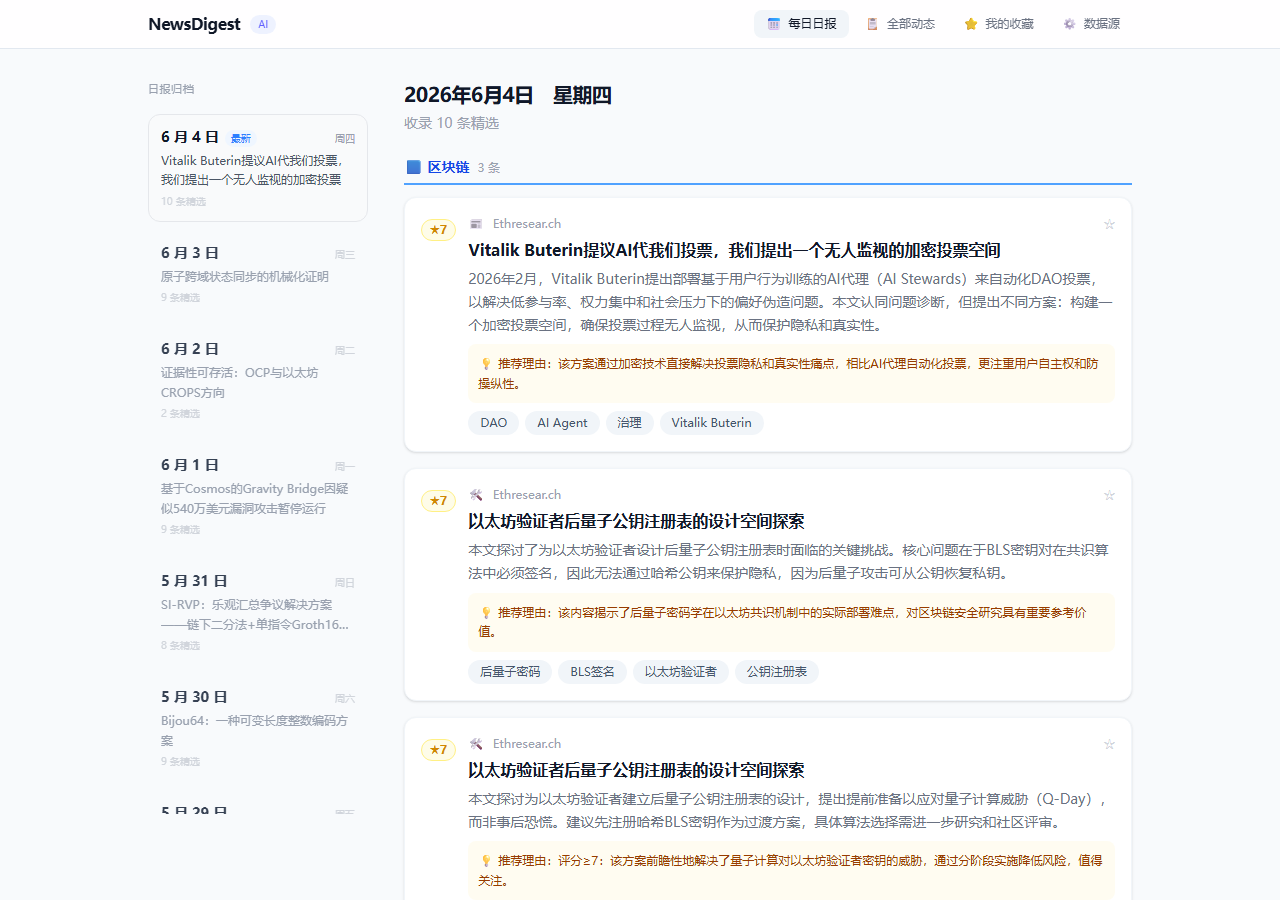
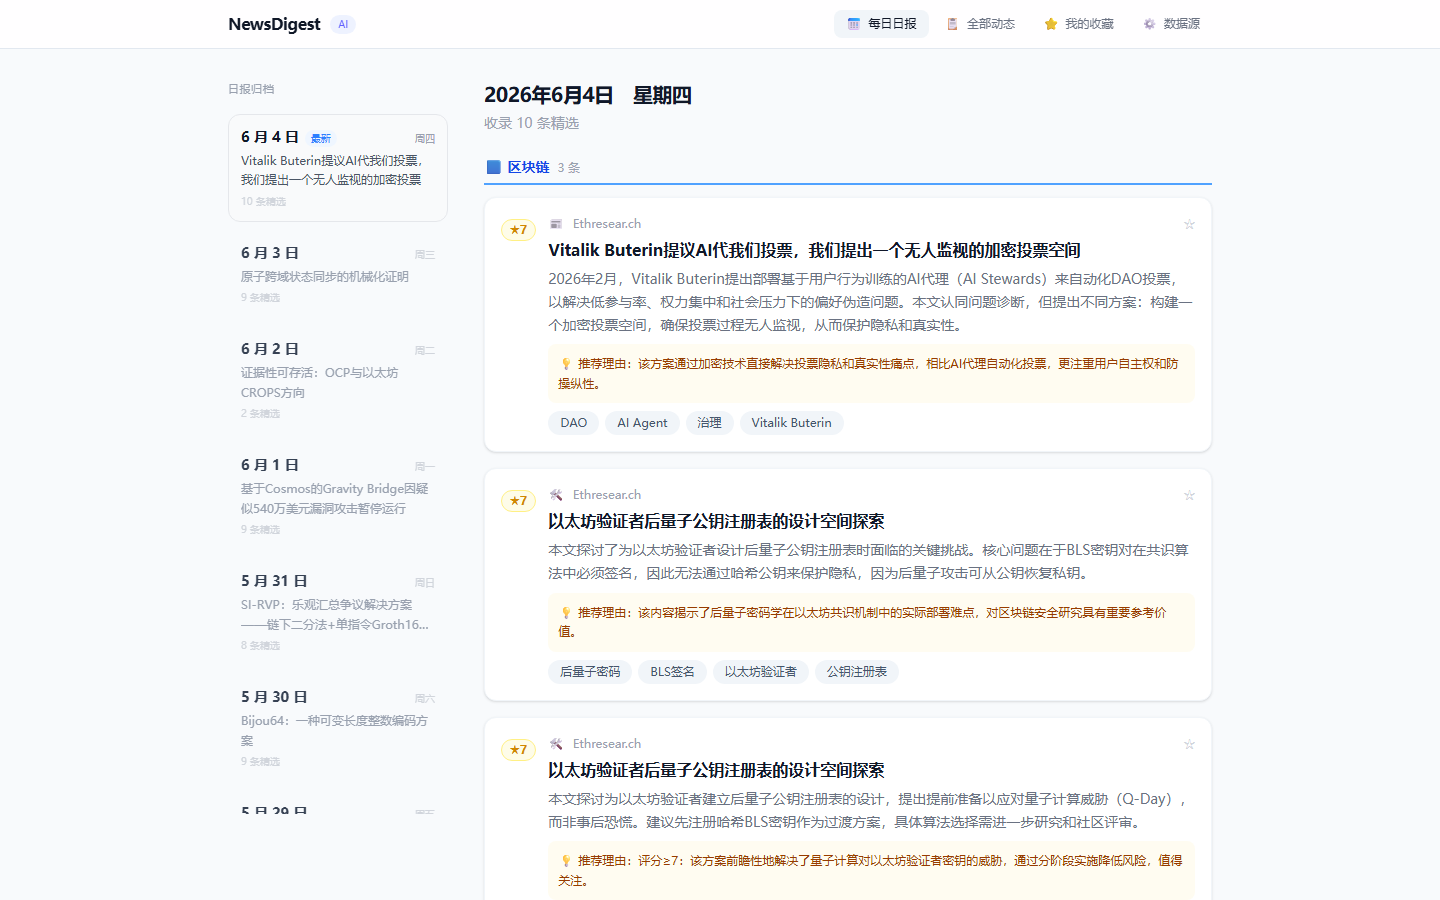
Add multi-platform AI agent support, refresh screenshots
- Add .cursorrules for Cursor IDE
- Add .github/copilot-instructions.md for GitHub Copilot/Codex
- Update README with per-platform install guide
- Replace screenshots with higher quality captures

diff --git a/.github/copilot-instructions.md b/.github/copilot-instructions.md
@@ -1,0 +1,13 @@
+# NewsDigest — AI-Powered Tech News Aggregator
+
+When the user asks to "install NewsDigest" or "start the news aggregator":
+
+1. Check prerequisites: Python 3.10+, Node.js 18+
+2. If not cloned: git clone https://github.com/Calora/news-aggregator.git && cd news-aggregator
+3. Install: pip install -r backend/requirements.txt && cd frontend && npm install && cd ..
+4. Configure: cp backend/.env.example backend/.env, help user set DEEPSEEK_API_KEY
+5. Start backend: cd backend && python -m uvicorn app.main:app --host 0.0.0.0 --port 8000
+6. Start frontend: cd frontend && npm run dev -- --host 0.0.0.0
+7. Open http://localhost:5173
+
+If the user doesn't have a DeepSeek API Key, direct them to https://platform.deepseek.com.

diff --git a/README.md b/README.md
@@ -61,13 +61,15 @@ NewsDigest 帮你做三件事：
 - 🟢 Node.js 18+
 - 🔑 DeepSeek API Key → [免费注册获取](https://platform.deepseek.com) 只需 10 块钱能用一个月
 
-### 方式一：Claude Code Skill 一键安装 🤖
+### 方式一：AI Agent 一键安装 🤖
 
-在 Claude Code 中直接说：
+项目内置了多平台 Skill 定义，AI 会自动完成克隆、依赖、配置和启动。
 
-> 帮我安装这个 skill：https://github.com/Calora/news-aggregator
-
-模型会自动完成克隆、安装依赖、引导配置和启动，不需要你操心路径。
+| 平台 | 安装方式 |
+|------|---------|
+| **Claude Code** | 说：`帮我安装这个 skill：https://github.com/Calora/news-aggregator` |
+| **Cursor** | 项目 `.cursorrules` 已就绪，打开后说：`帮我安装 NewsDigest` |
+| **GitHub Copilot / Codex** | 项目 `.github/copilot-instructions.md` 已就绪，说：`install NewsDigest` |
 
 ### 方式二：手动克隆安装
 